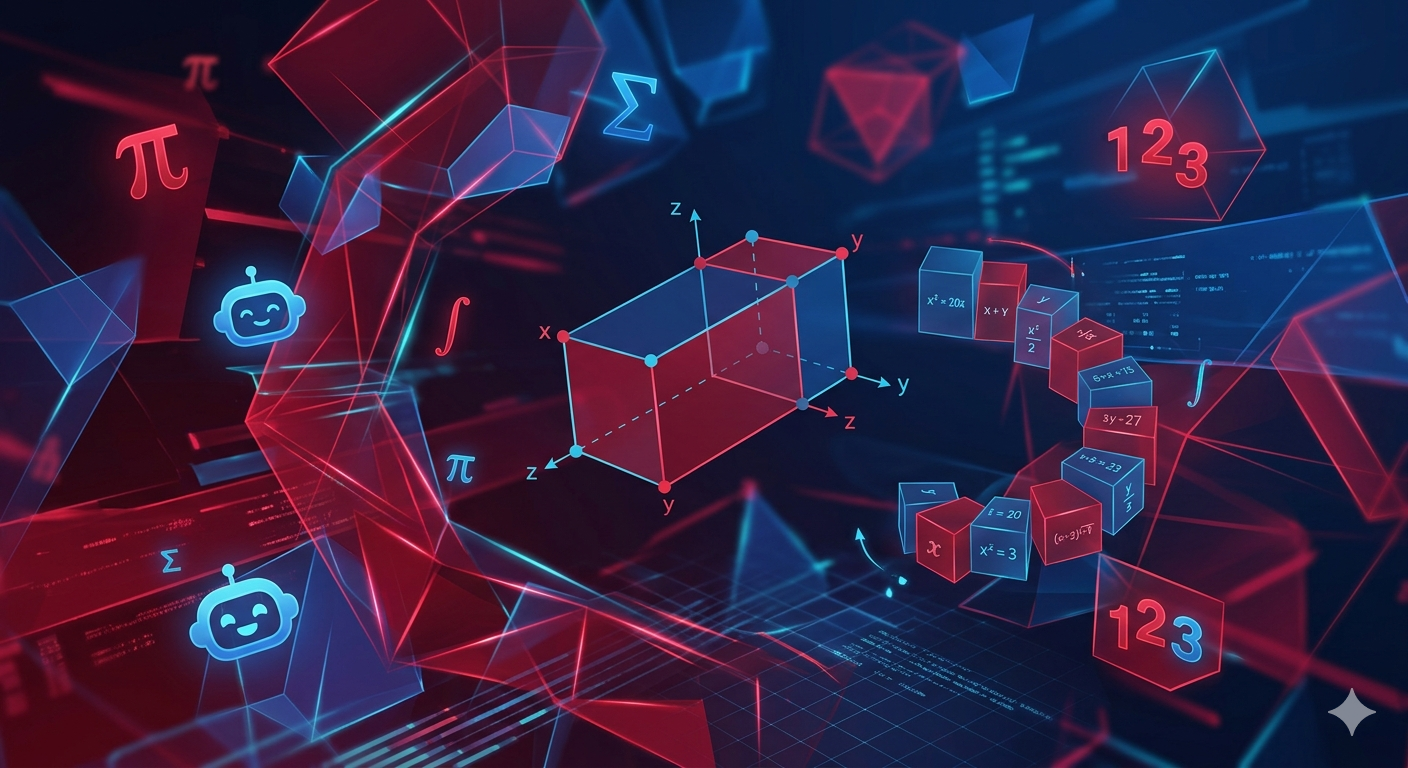
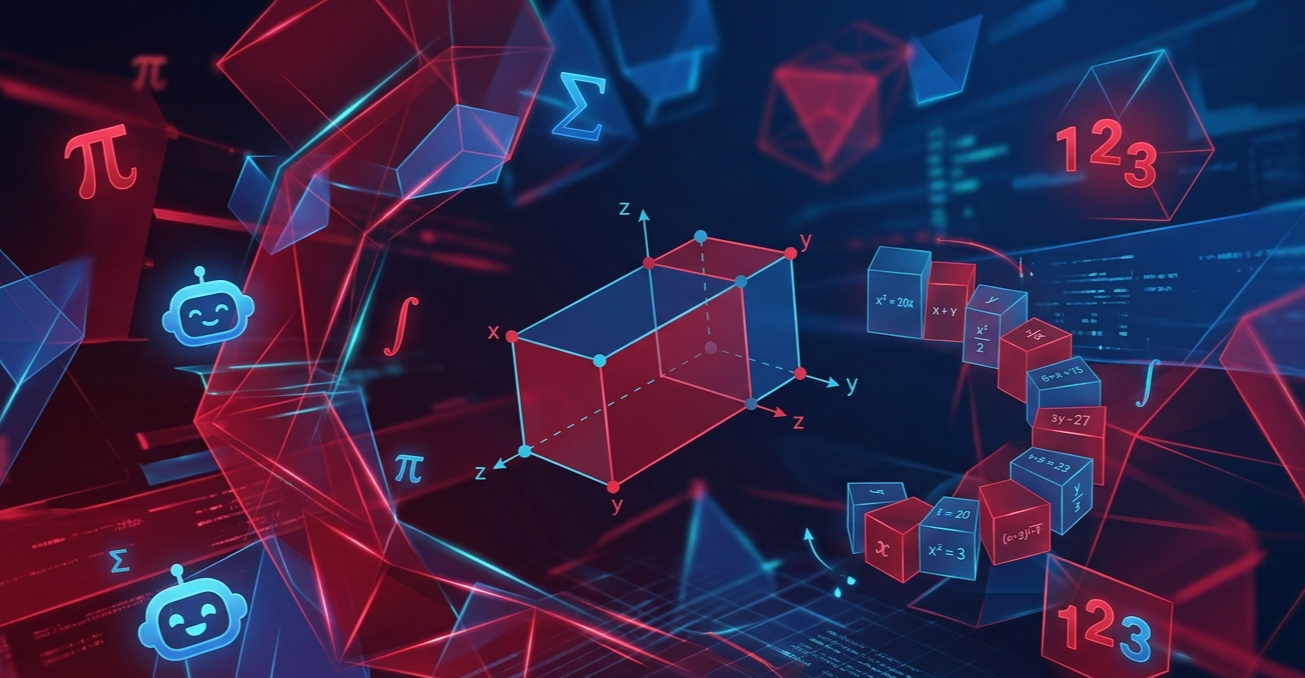
up

diff --git a/dashboardhp.html b/dashboardhp.html
@@ -114,7 +114,7 @@
 
         /* HERO CONTENT LAYOUT */
         .hero-section {
-            padding: 25px 20px 15px 20px;
+            padding: 25px 20px 25px 20px;
             text-align: center;
             flex-grow: 1;
             display: flex;
@@ -214,7 +214,7 @@
             line-height: 1.3;
         }
 
-        /* TUTOR BUTTON AREA (SEKARANG HANYA 1 TOMBOL) */
+        /* TUTOR BUTTON AREA */
         .tutor-grid {
             display: flex;
             flex-direction: column;
@@ -247,6 +247,20 @@
             color: #111827;
             box-shadow: 0 0 15px rgba(255, 184, 0, 0.4);
             text-decoration: none;
+        }
+
+        /* Perbaikan Footer */
+        .custom-footer {
+            width: 100%; 
+            text-align: center; 
+            color: rgba(255, 255, 255, 0.7); 
+            font-size: 0.8rem; 
+            letter-spacing: 0.5px;
+            padding: 15px 10px;
+            background: rgba(10, 15, 30, 0.5); 
+            backdrop-filter: blur(5px);         
+            border-top: 1px solid rgba(255, 255, 255, 0.1);
+            margin-top: auto; /* Memaksa footer ke paling bawah jika konten sedikit */
         }
     </style>
 </head>
@@ -302,6 +316,10 @@
         </div>
     </main>
 
+    <footer class="custom-footer">
+        Developed by <strong>DEVI</strong> & <strong>NURBAITY</strong> | <strong>UNIVERSITAS NEGERI MAKASSAR</strong>
+    </footer>
+
     <script src="https://cdn.jsdelivr.net/npm/bootstrap@5.3.2/dist/js/bootstrap.bundle.min.js"></script>
 
     <script>
@@ -321,19 +339,5 @@
             window.location.replace('index.html'); 
         });
     </script>
-    <footer style="
-    position: absolute; 
-    bottom: 0; 
-    width: 100%; 
-    text-align: center; 
-    color: rgba(255, 255, 255, 0.7); 
-    font-size: 0.8rem; 
-    letter-spacing: 0.5px;
-    padding: 15px 0;
-    background: rgba(10, 15, 30, 0.5); /* Background gelap transparan */
-    backdrop-filter: blur(5px);         /* Efek kaca buram (glassmorphism) */
-    border-top: 1px solid rgba(255, 255, 255, 0.1);
-">
-    Developed by <strong>DEVI</strong> & <strong>NURBAITY</strong> | <strong>UNIVERSITAS NEGERI MAKASSAR</strong>
 </body>
 </html>
